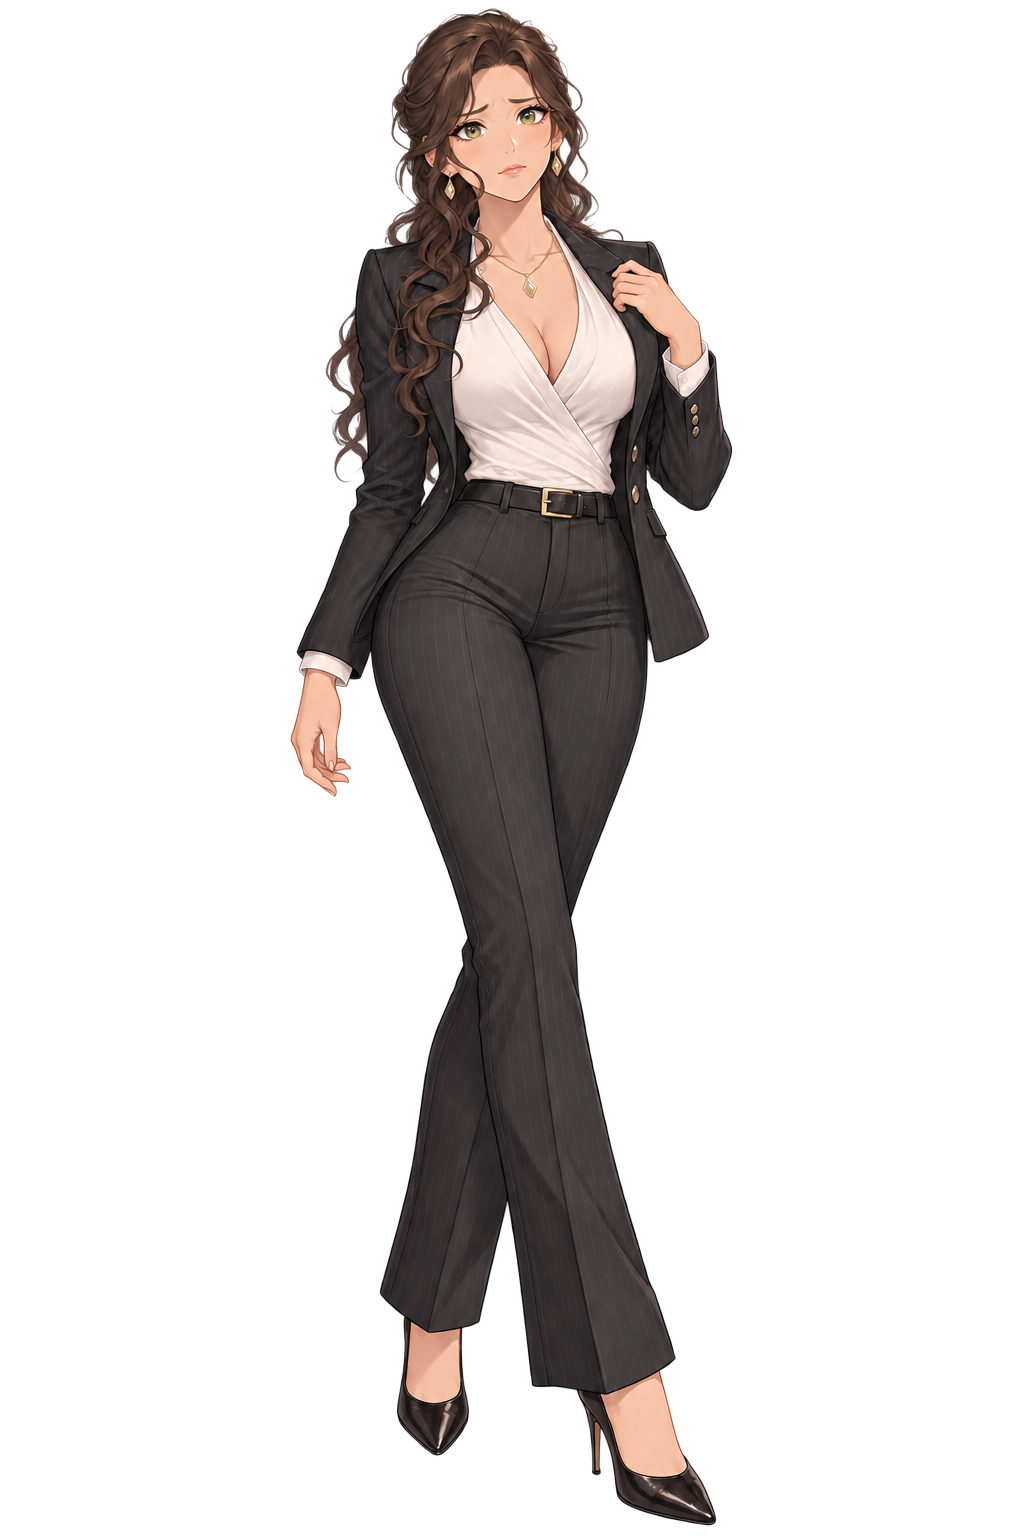
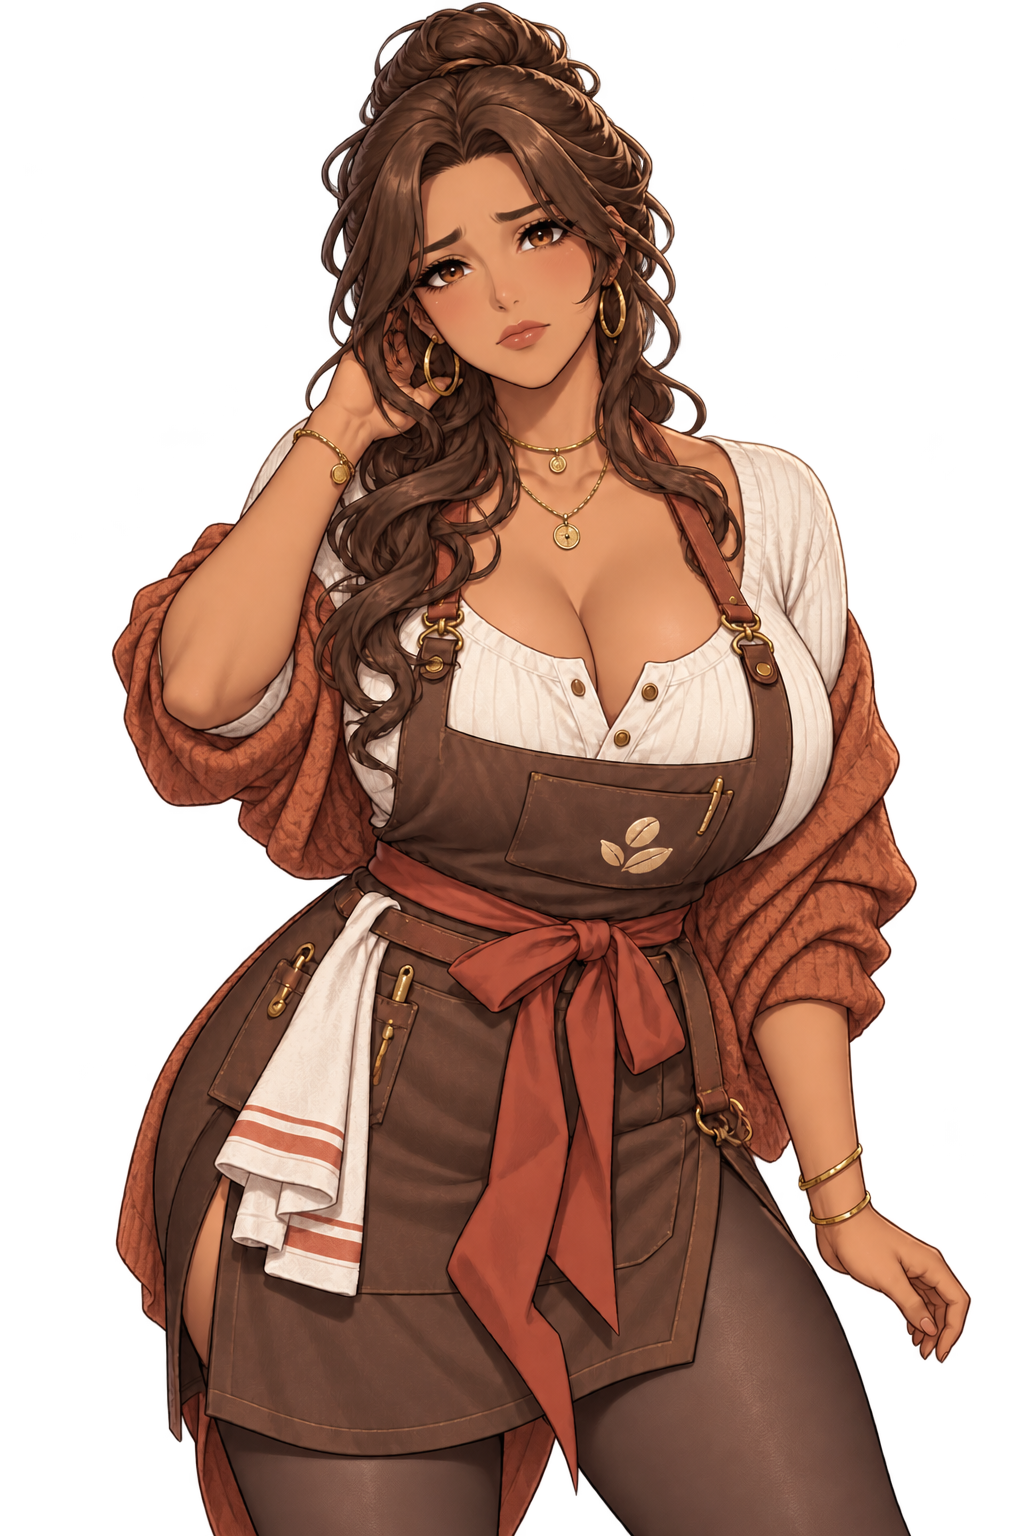
Integrate canonical Alma v4 cafe expressions and preserve source artwork
Enable concerned and surprised in scene and battle portrait routing. Preserve all full-resolution v4 inputs, thumbnails and provenance plus superseded v3 assets. Verify lossless RGBA equality, source SHA manifests and every uploaded blob hash. Include exact asset inventory and targeted resolver coverage.

diff --git a/tests/rpg_alma_portraits.test.js b/tests/rpg_alma_portraits.test.js
@@ -8,14 +8,16 @@ const portrait=vm.runInNewContext('('+body+')',{activeOutfitSceneId:null});
 const base='/rpg-assets/characters/alma/expression-portraits/';
 test('Alma scene expressions stay in the canonical female cafe set',()=>{
  for(const expression of ['neutral','happy','soft','concerned','surprised','vulnerable','irritated','determined','unknown']){
-  const name=['neutral','happy','soft'].includes(expression)?expression:'neutral';
+  const name=['neutral','happy','soft','concerned','surprised'].includes(expression)?expression:'neutral';
   assert.deepEqual(Array.from(portrait('alma',expression)),[base+name+'.webp','/rpg-assets/alma.png']);
   assert.ok(fs.existsSync('.'+base+name+'.webp'));
  }
 });
 test('Alma battle reactions and gallery avoid incompatible guest and suit art',()=>{
  for(const kind of ['default','play_card','evolve','power','hurt','big_hit','weakness_hit','status_hit','ko_taken','ko_scored']){
-  const expected=['play_card','evolve','power','ko_scored'].includes(kind)?'happy':'neutral';
+  const expected=['play_card','evolve','power','ko_scored'].includes(kind)?'happy':
+   ['hurt','big_hit','weakness_hit'].includes(kind)?'surprised':
+   ['status_hit','ko_taken'].includes(kind)?'concerned':'neutral';
   assert.equal(reactions.assetFor({},'alma',kind),base+expected+'.webp');
  }
  assert.equal(gallery.artCandidates({character:'alma',path:'/rpg-assets/missing.webp'}).at(-1).path,base+'neutral.webp');

diff --git a/rpg.js b/rpg.js
@@ -1960,9 +1960,9 @@ let activeOutfitSceneId=null;
 const solExpressions={neutral:'neutral',surprised:'surprised',vulnerable:'worried',irritated:'worried',determined:'neutral',happy:'smile'};
 function portraitPaths(id,expression='neutral',sceneId=activeOutfitSceneId){
  // Alma's legacy guest sheet depicts another character. Only the cafe set is compatible.
- // Concerned/surprised candidates remain preserved pending a matching canonical outfit.
+ // The v4 concerned/surprised pair matches the canonical cafe outfit.
  if(id==='alma'){
-  const name=['neutral','happy','soft'].includes(expression)?expression:'neutral';
+  const name=['neutral','happy','soft','concerned','surprised'].includes(expression)?expression:'neutral';
   return ['/rpg-assets/characters/alma/expression-portraits/'+name+'.webp','/rpg-assets/alma.png'];
  }
  const fallback=cast[id].portrait||'/rpg-assets/'+id+'.png';

diff --git a/rpg_match_reactions.js b/rpg_match_reactions.js
@@ -70,7 +70,9 @@
  function vnCandidates(npcId,kind){
   // Keep Alma in canonical cafe workwear; legacy guest art and suit candidates conflict.
   if(npcId==='alma'){
-   const name=['attack','play_card','evolve','power','ko_scored'].includes(kind)?'happy':'neutral';
+   const name=['attack','play_card','evolve','power','ko_scored'].includes(kind)?'happy':
+    ['hurt','big_hit','weakness_hit'].includes(kind)?'surprised':
+    ['status_hit','ko_taken'].includes(kind)?'concerned':'neutral';
    return [...new Set([name,'neutral'])].map(expression=>
     '/rpg-assets/characters/alma/expression-portraits/'+expression+'.webp');
   }
